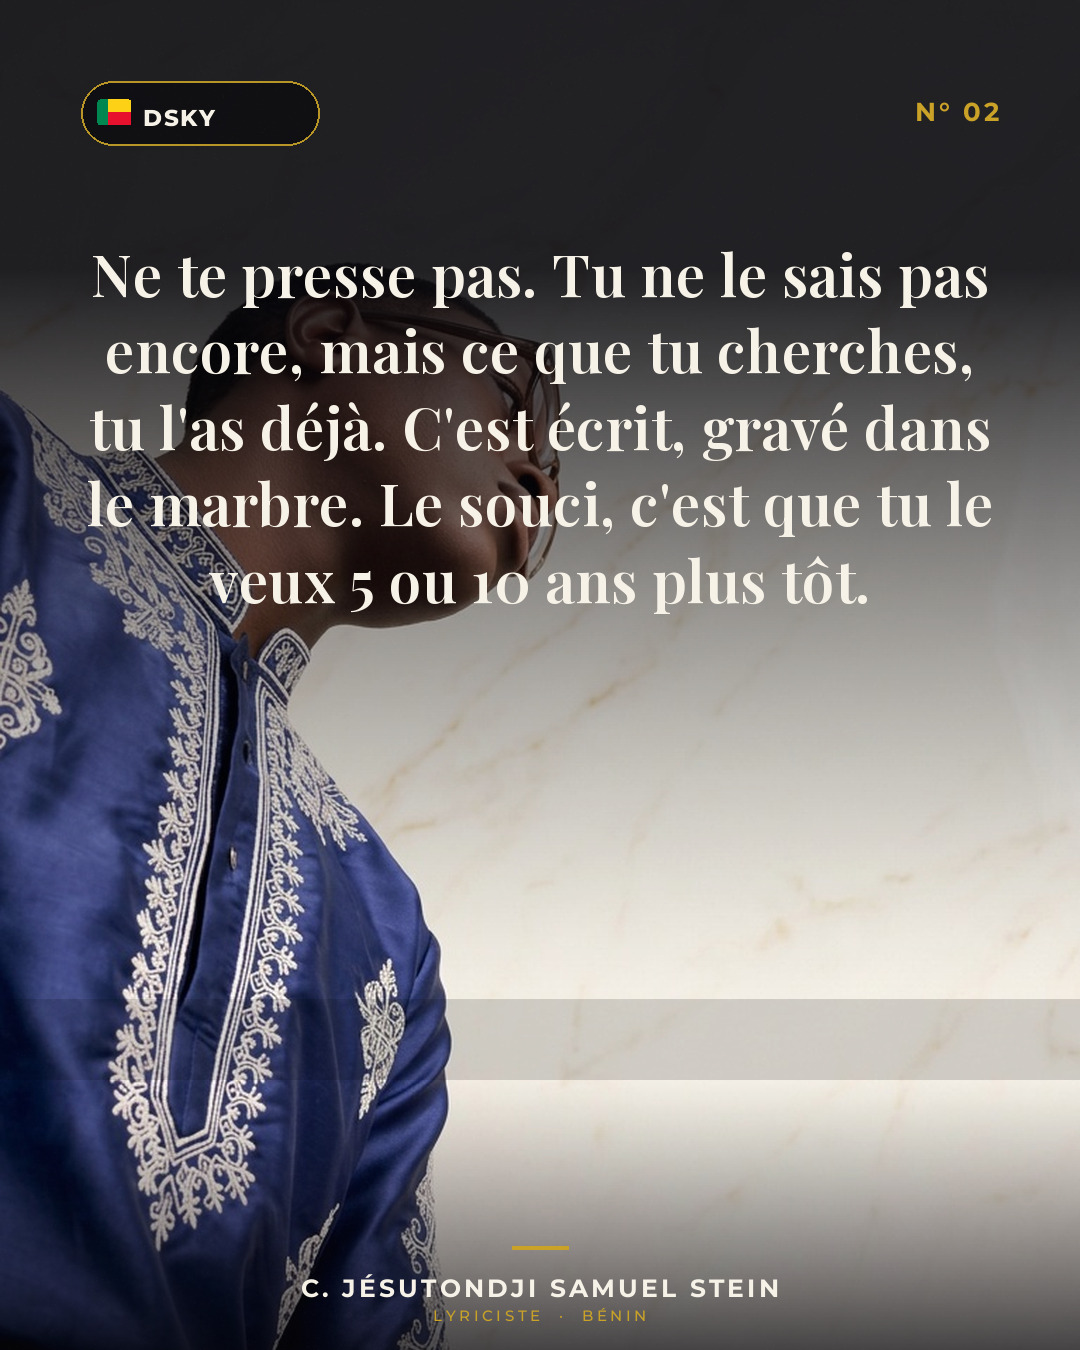
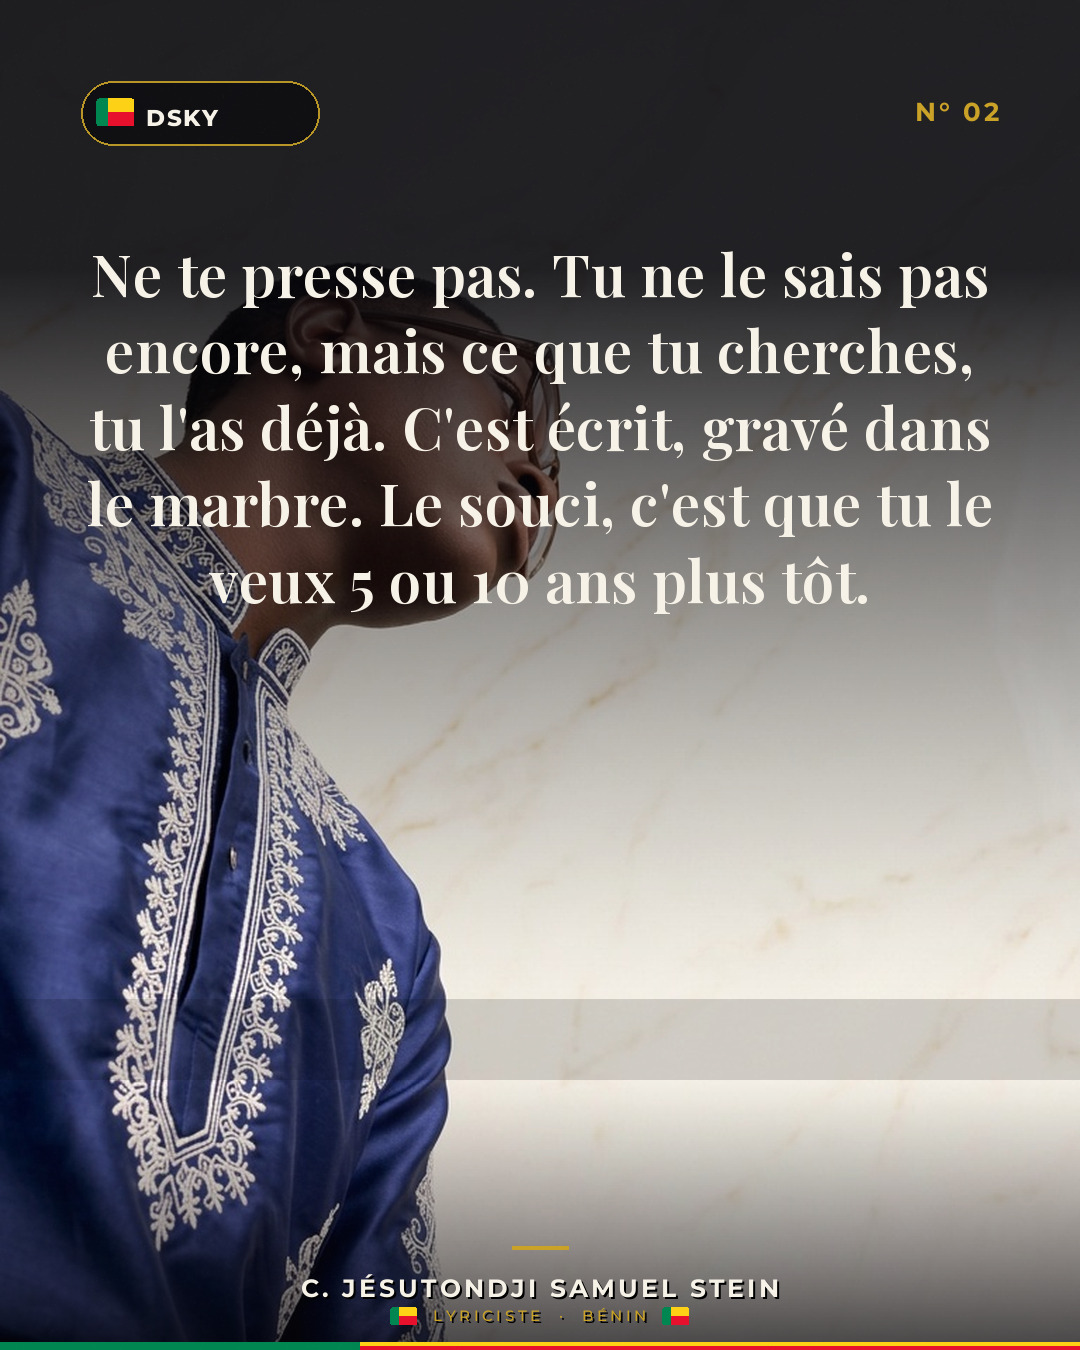
DSKY QUOTES — Salve 02 : citations 11-20
- Visuels générés à partir des photos réelles de l'auteur (dossiers Samu/Samuel)
- Drapeau du Bénin renforcé : mini-drapeaux signature + liseré tricolore
- Salve 01 régénérée avec le nouveau branding
- 20/41 citations traitées

diff --git a/dsky-quotes/compose.py b/dsky-quotes/compose.py
@@ -45,11 +45,13 @@ def tracking_w(draw, text, f, tr):
         w += draw.textlength(ch, font=f) + tr
     return max(0, w - tr)
 
-def draw_tracking(draw, xy, text, f, fill, tr=0, anchor_center_x=None):
+def draw_tracking(draw, xy, text, f, fill, tr=0, anchor_center_x=None, shadow=None):
     x, y = xy
     if anchor_center_x is not None:
         x = anchor_center_x - tracking_w(draw, text, f, tr) / 2
     for ch in text:
+        if shadow:
+            draw.text((x + 2, y + 2), ch, font=f, fill=shadow)
         draw.text((x, y), ch, font=f, fill=fill)
         x += draw.textlength(ch, font=f) + tr
     return x
@@ -91,7 +93,7 @@ def draw_badge(img, x, y, accent, scale=1.0):
     d = ImageDraw.Draw(overlay)
     d.rounded_rectangle([20, 20, 20 + W, 20 + H], radius=H // 2, fill=(8, 8, 12, 170),
                         outline=accent + (230,), width=max(2, int(2 * scale)))
-    fx, fy, fw, fh = 20 + int(16 * scale), 20 + int(18 * scale), int(34 * scale), int(26 * scale)
+    fx, fy, fw, fh = 20 + int(15 * scale), 20 + int(17 * scale), int(38 * scale), int(28 * scale)
     mask = Image.new("L", (fw, fh), 0)
     ImageDraw.Draw(mask).rounded_rectangle([0, 0, fw, fh], radius=4, fill=255)
     flag = Image.new("RGBA", (fw, fh))
@@ -181,10 +183,26 @@ def compose(base_path, quote_text, style, num, out_post, out_story):
         d.rectangle([W / 2 - rule_w / 2, fy - 34, W / 2 + rule_w / 2, fy - 31], fill=pal["accent"] + (255,))
         fsig = montserrat(25, 700)
         draw_tracking(d, (0, fy - 8), "C. JÉSUTONDJI SAMUEL STEIN", fsig,
-                      pal["text"] + (235,), tr=3.2, anchor_center_x=W / 2)
+                      pal["text"] + (235,), tr=3.2, anchor_center_x=W / 2, shadow=(0, 0, 0, 150))
         fsub = montserrat(15, 500)
-        draw_tracking(d, (0, fy + 26), "LYRICISTE  ·  BÉNIN", fsub,
-                      pal["accent"] + (220,), tr=3.6, anchor_center_x=W / 2)
+        sub = "LYRICISTE  ·  BÉNIN"
+        subw = tracking_w(d, sub, fsub, 3.6)
+        draw_tracking(d, (0, fy + 26), sub, fsub,
+                      pal["accent"] + (220,), tr=3.6, anchor_center_x=W / 2, shadow=(0, 0, 0, 150))
+        # mini-drapeaux 🇧🇯 flanquant la ligne de signature
+        fw2, fh2, gap = 27, 18, 16
+        for fx in (W / 2 - subw / 2 - gap - fw2, W / 2 + subw / 2 + gap):
+            mflag = Image.new("L", (fw2, fh2), 0)
+            ImageDraw.Draw(mflag).rounded_rectangle([0, 0, fw2, fh2], radius=3, fill=255)
+            fl = Image.new("RGBA", (fw2, fh2))
+            draw_flag(ImageDraw.Draw(fl), 0, 0, fw2, fh2)
+            img.paste(fl, (int(fx), fy + 27), mflag)
+        # liseré tricolore béninois sur le bord inférieur
+        sh_ = max(6, int(H * 0.0065))
+        third = int(W / 3)
+        d.rectangle([0, H - sh_, third, H], fill=BENIN_GREEN)
+        d.rectangle([third, H - sh_, W, H - sh_ // 2], fill=BENIN_YELLOW)
+        d.rectangle([third, H - sh_ // 2, W, H], fill=BENIN_RED)
         grain(img)
         return img.convert("RGB")
 

diff --git a/dsky-quotes/README.md b/dsky-quotes/README.md
@@ -47,7 +47,7 @@ python3 compose.py 01     # → salve-01/post/*.png + salve-01/story/*.png
 ## 🗺 Planning des salves
 
 - [x] **Salve 01** — citations 1 → 10
-- [ ] **Salve 02** — citations 11 → 20
+- [x] **Salve 02** — citations 11 → 20 *(photos réelles de l'auteur, grading cinéma par citation)*
 - [ ] **Salve 03** — citations 21 → 30
 - [ ] **Salve 04** — citations 31 → 40
 - [ ] **Salve 05** — citation 41 (clôture)
